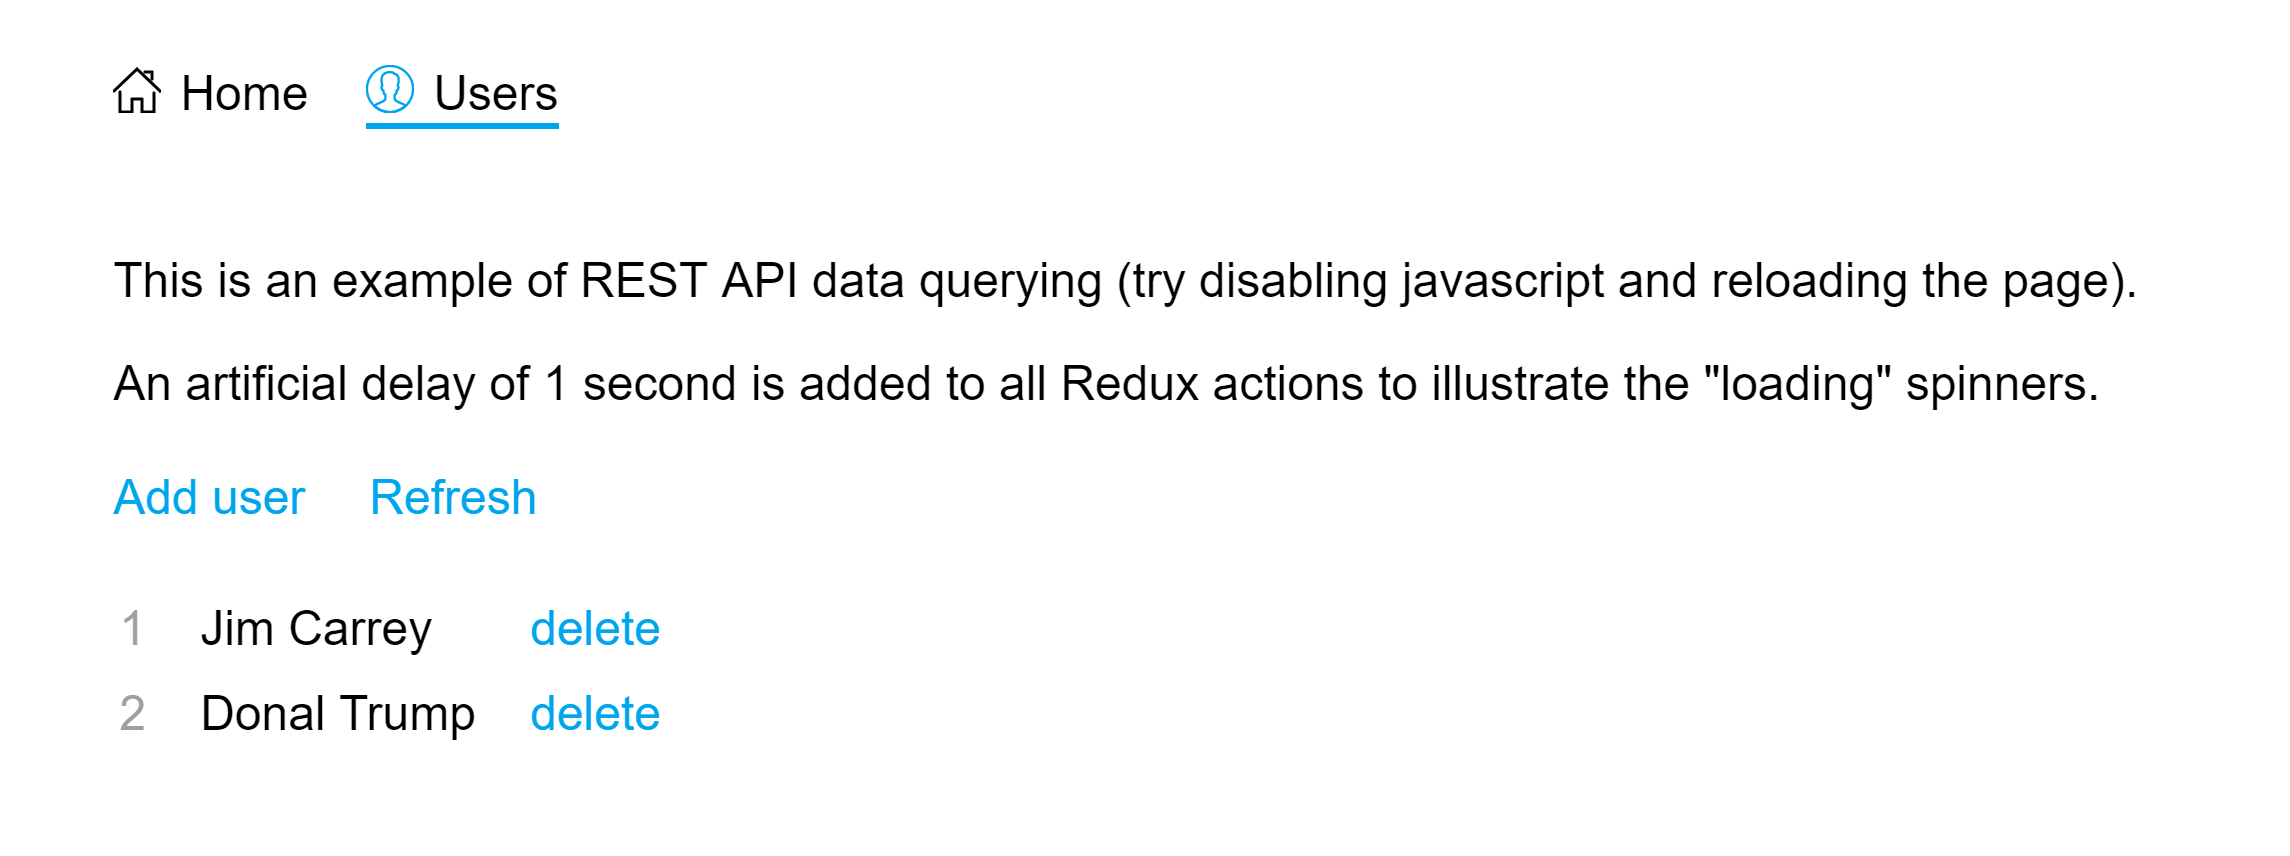
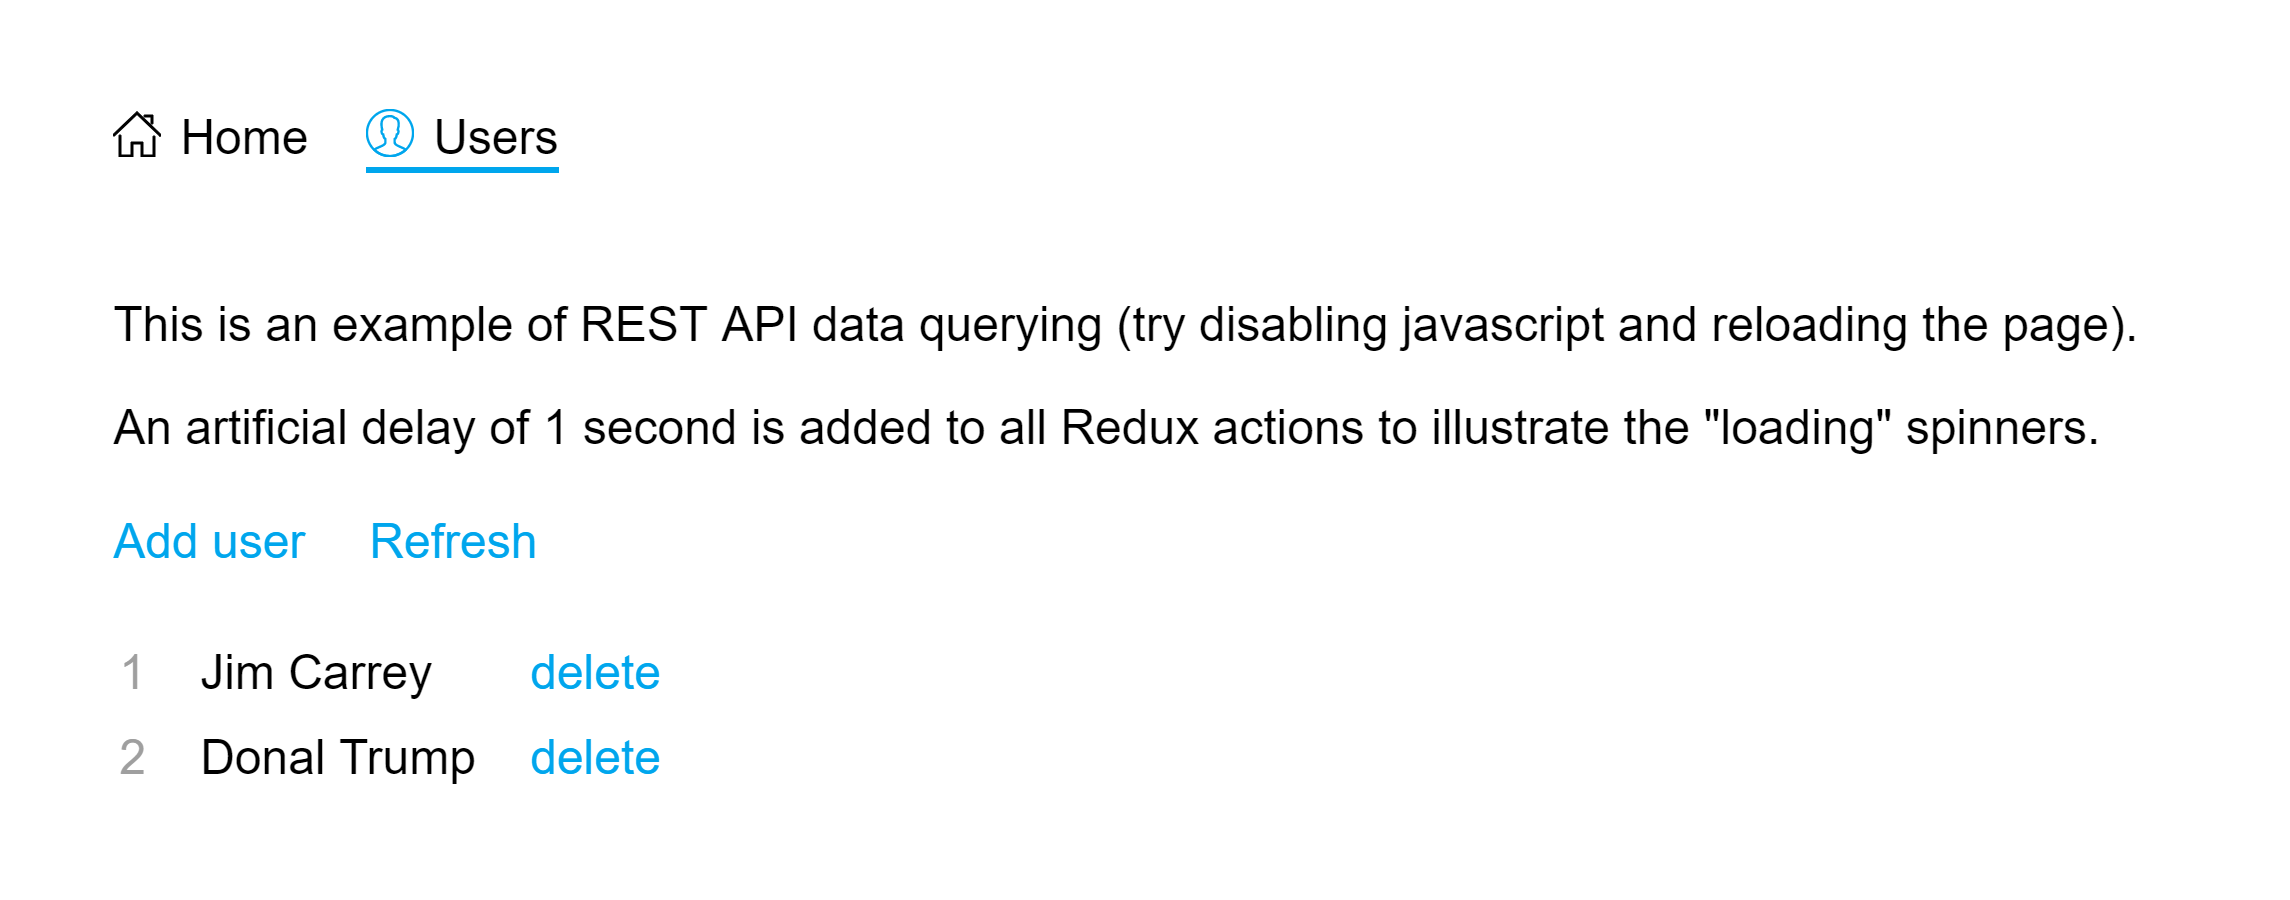
Added screenshot space

diff --git a/README.md b/README.md
@@ -8,9 +8,7 @@ Features
 * Webpack 2
 * Development mode: hot reload for React components, hot reload for Redux reducers and actions
 
-####
-
-<img src="https://raw.githubusercontent.com/catamphetamine/webpack-react-redux-isomorphic-render-example/master/docs/images/screenshot.png" width="840" height="314"/>
+<img src="https://raw.githubusercontent.com/catamphetamine/webpack-react-redux-isomorphic-render-example/master/docs/images/screenshot.png" width="840" height="330"/>
 
 Quick Start
 ===========
